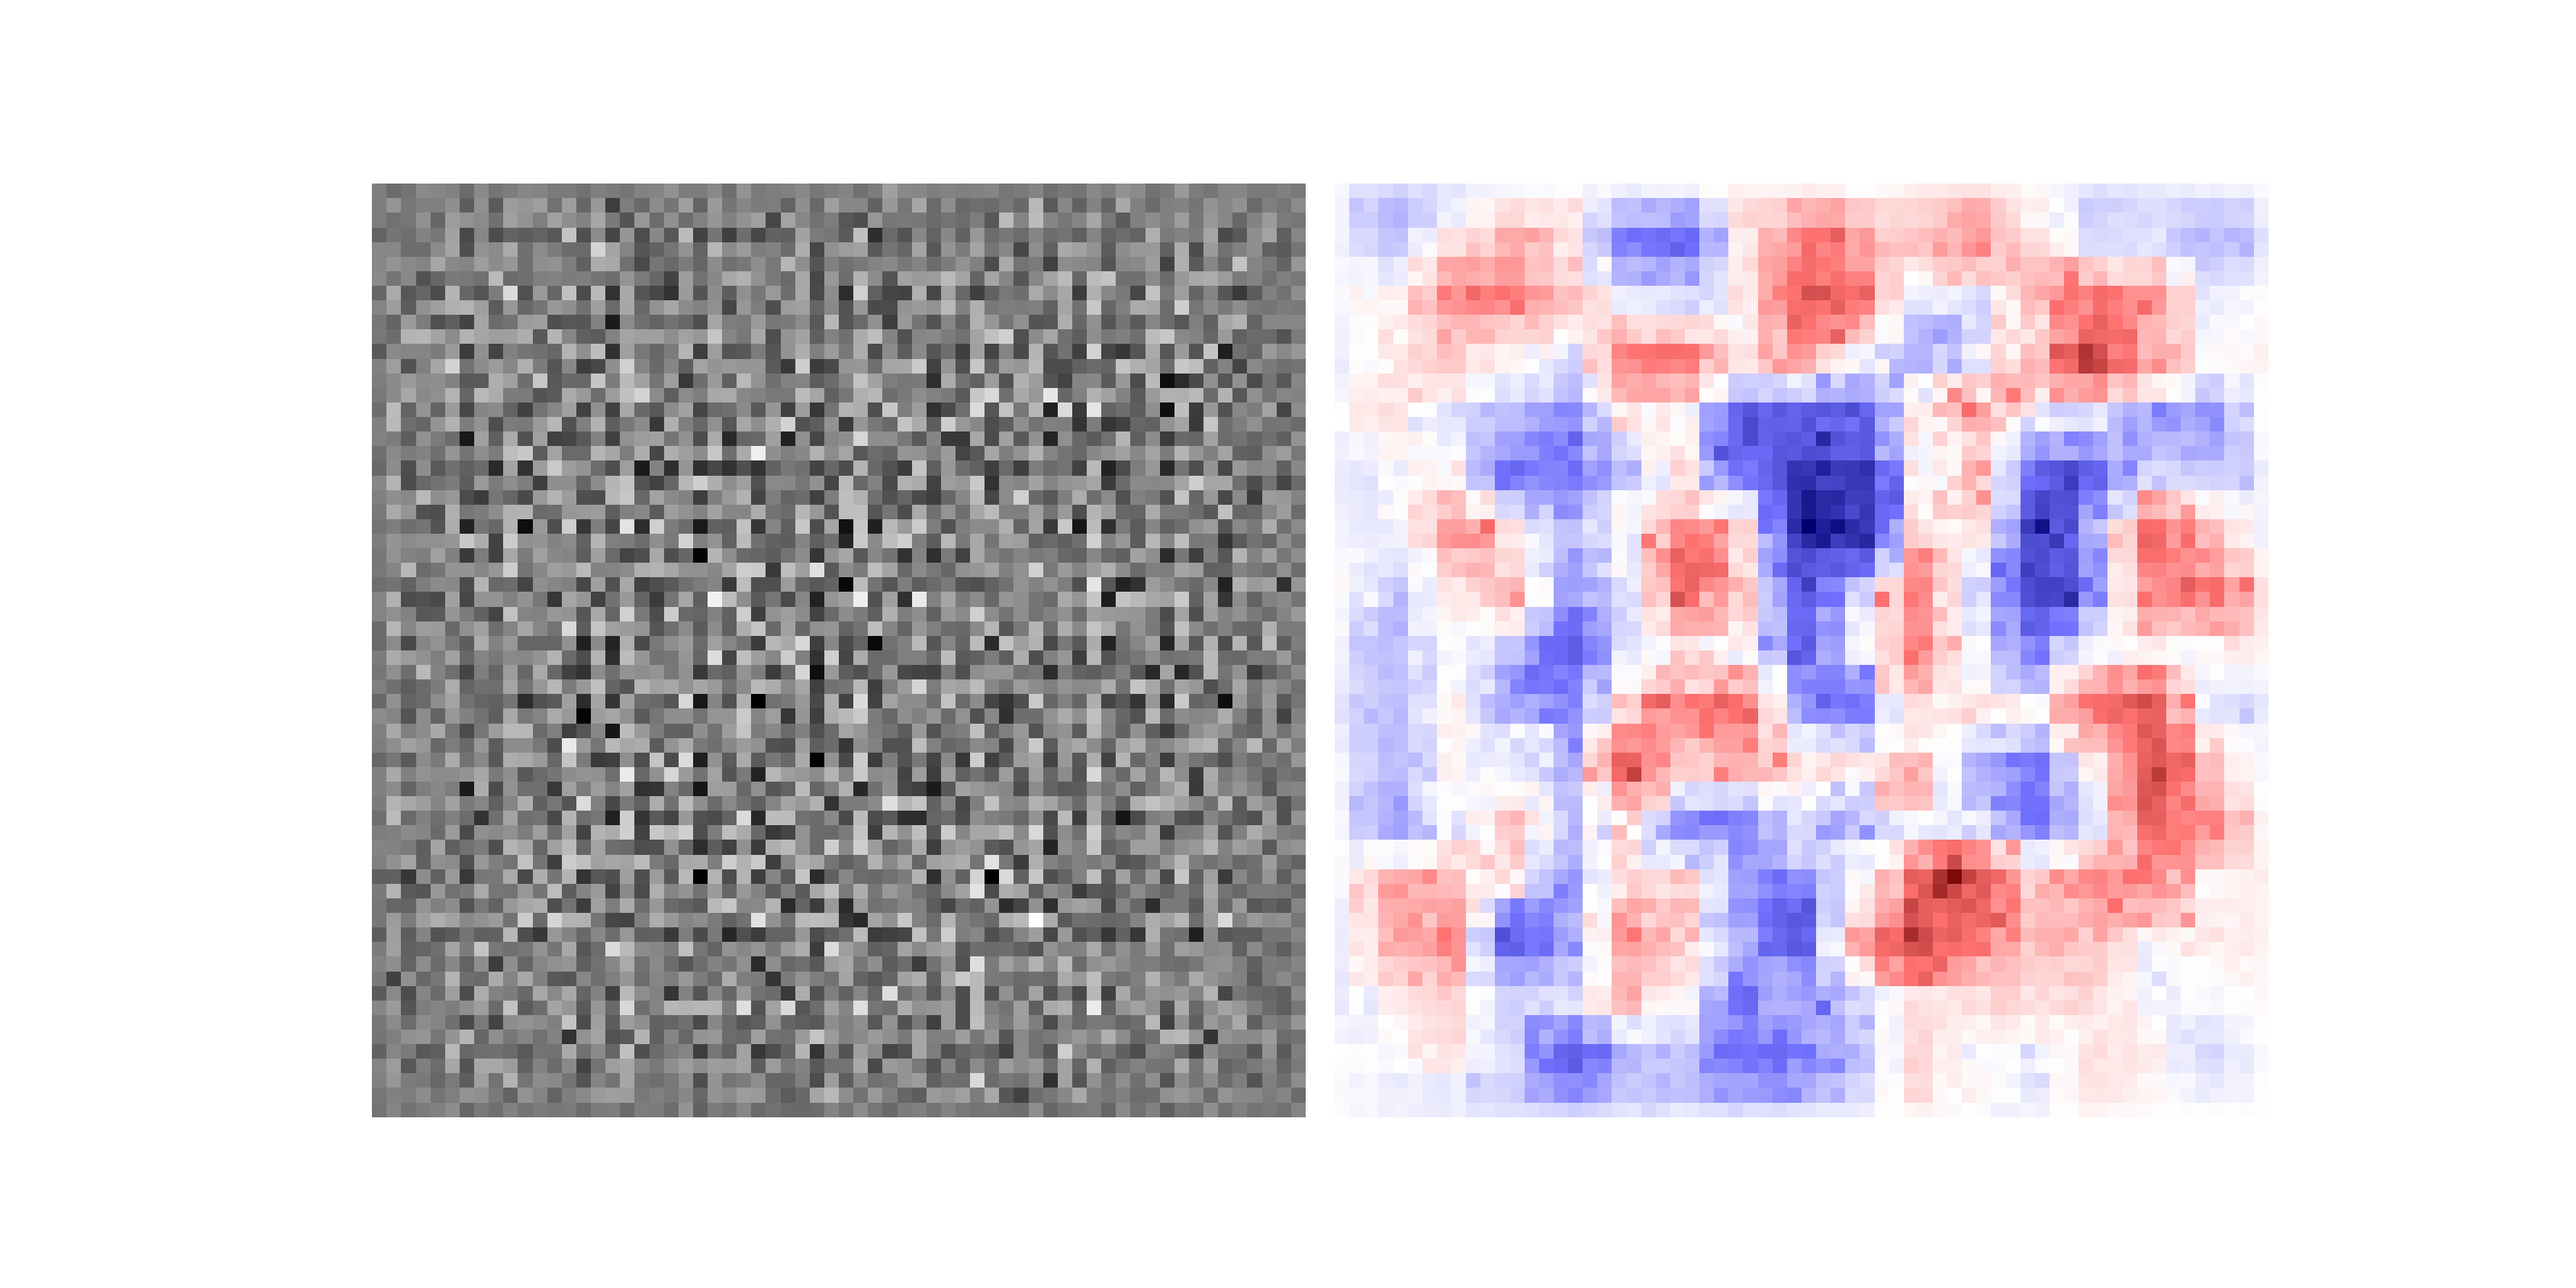
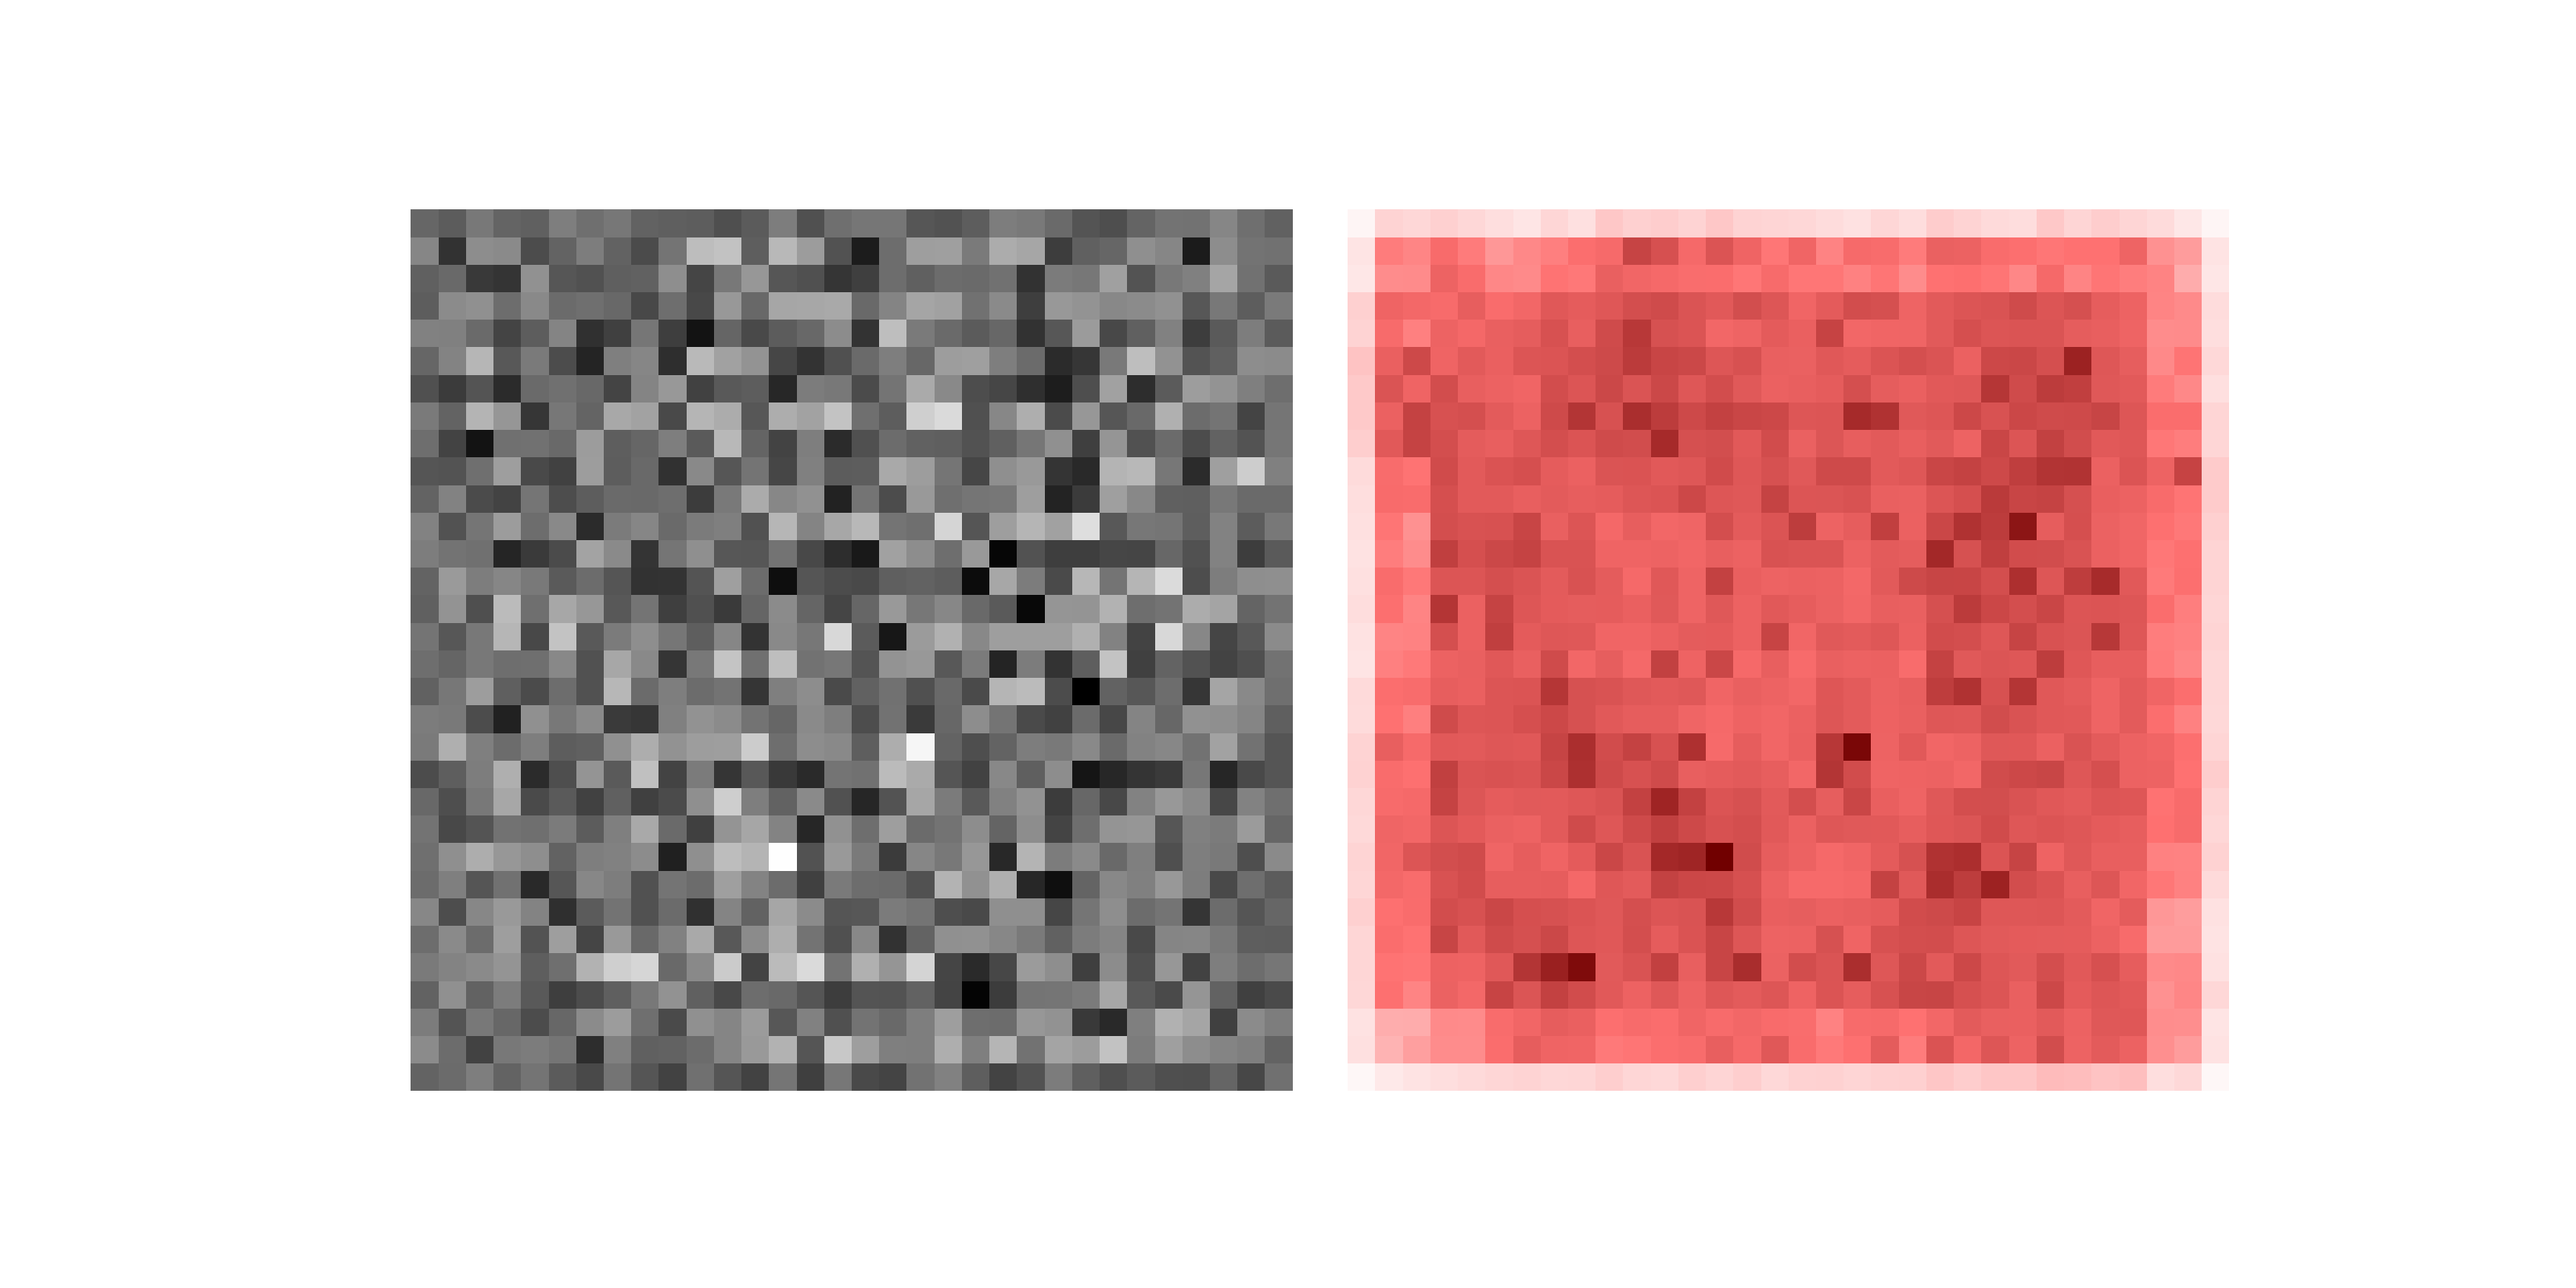
Changed image size and network architecture

diff --git a/DCGANwithLRP.py b/DCGANwithLRP.py
@@ -24,7 +24,7 @@ print(gpu)
 def load_mnist_data():
     transform = transforms.Compose(
         [
-         # transforms.Resize(64),
+         transforms.Resize(32),
          transforms.ToTensor(),
          transforms.Normalize((0.1307,), (0.3081,))
          ]
@@ -34,11 +34,11 @@ def load_mnist_data():
 
 
 def images_to_vectors(images):
-    return images.view(images.size(0), 784)
+    return images.view(images.size(0), 1024)
 
 
 def vectors_to_images(vectors):
-    return vectors.view(vectors.size(0), 1, 28, 28)
+    return vectors.view(vectors.size(0), 1, 32, 32)
 
 
 def noise(size):
@@ -90,6 +90,7 @@ class DiscriminatorNet(nn.Module):
         n_out = 1
         self.net = RelevanceNet(
             Layer(  # Input Layer
+                # State space: 100 x channels x 32 x 32
                 FirstConvolution(1, d, 4, stride=2, padding=1),
                 PropReLu(),
             ),
@@ -103,13 +104,13 @@ class DiscriminatorNet(nn.Module):
                 BatchNorm2d(4 * d),
                 PropReLu(),
             ),
-            Layer(
-                NextConvolution(4 * d, 8 * d, 4, stride=2, padding=1),
-                BatchNorm2d(8 * d),
-                PropReLu(),
-            ),
+            # Layer(
+            #     NextConvolution(4 * d, 8 * d, 4, stride=2, padding=1),
+            #     BatchNorm2d(8 * d),
+            #     PropReLu(),
+            # ),
             Layer(  # Output Layer
-                NextConvolution(8 * d, 1, 4, stride=1, padding=0),
+                NextConvolution(4 * d, 1, 4, stride=1, padding=0),
                 FlattenLayer(),
                 nn.Sigmoid()
             )
@@ -156,36 +157,34 @@ class GeneratorNet(torch.nn.Module):
     def __init__(self, input_features=100, d=128):
         super(GeneratorNet, self).__init__()
 
-        input_features = 100
-
         self.main = nn.Sequential(
             Layer(
                 #                   Channel_in,     c_out, k, s, p
-                nn.ConvTranspose2d(input_features, d * 8, 4, 1, 0),
-                nn.BatchNorm2d(d*8),
+                nn.ConvTranspose2d(input_features, d * 4, 4, 1, 0),
+                nn.BatchNorm2d(d * 4),
                 nn.LeakyReLU(0.2)
                 # state size = 100 x 1024 x 4 x 4
             ),
             Layer(
                 #                   C_in, c_out,k, s, p
-                nn.ConvTranspose2d(d * 8, d * 4, 4, 2, 1),
-                nn.BatchNorm2d(d * 4),
-                nn.LeakyReLU(0.2)
-                # state size = 100 x 512 x 8 x 8
-            ),
-            Layer(
-                #                C_in, c_out,k, s, p
                 nn.ConvTranspose2d(d * 4, d * 2, 4, 2, 1),
                 nn.BatchNorm2d(d * 2),
                 nn.LeakyReLU(0.2)
-                # state size = 100 x 256 x 16 x 16
+                # state size = 100 x 512 x 8 x 8
             ),
             Layer(
                 #                C_in, c_out,k, s, p
                 nn.ConvTranspose2d(d * 2, d, 4, 2, 1),
                 nn.BatchNorm2d(d),
                 nn.LeakyReLU(0.2)
-                ),
+                # state size = 100 x 256 x 16 x 16
+            ),
+            # Layer(
+            #     #                C_in, c_out,k, s, p
+            #     nn.ConvTranspose2d(d * 2, d, 4, 2, 1),
+            #     nn.BatchNorm2d(d),
+            #     nn.LeakyReLU(0.2)
+            #     ),
             Layer(
                 #               C_in, c_out,k, s, p
                 nn.ConvTranspose2d(d, 1, 4, 2, 1),
@@ -250,15 +249,13 @@ test_noise = noise(num_test_samples)
 
 # Training
 
-# How often does the discriminator train on the data before the generator is trained again
-d_steps = 1
-
 num_epochs = 200
 
 for epoch in range(num_epochs):
     for n_batch, (real_batch, _) in enumerate(data_loader):
         print('Batch', n_batch)
         n = real_batch.size(0)
+        print(real_batch.shape)
 
 
         # Images for Discriminator

diff --git a/utils.py b/utils.py
@@ -194,7 +194,7 @@ def visualize(x, colormap):
     x = colormap(x / np.abs(x).max())
 
     # Create a mosaic and upsample
-    x = x.reshape([N, 64, 64, 3])
+    x = x.reshape([N, 32, 32, 3])
     return x
     # x = np.pad(x, ((0, 0), (0, 0), (2, 2), (2, 2), (0, 0)), 'constant', constant_values=1)
     # x = x.transpose([0, 2, 1, 3, 4]).reshape([1 * 32, N * 32, 3])
